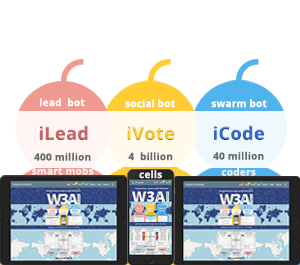
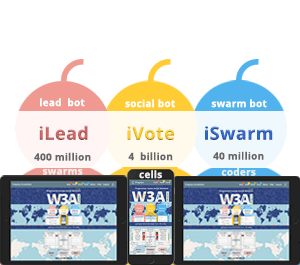
pivot to weSwarm 4 fun days weekend

diff --git a/src/app/welcome/welcome.component.html b/src/app/welcome/welcome.component.html
@@ -2,8 +2,8 @@
 
   <img id="innovators" class="web-show" src="/assets/img/innovators-400.jpg" height="265">
 
-  <div class="faster-world">
-    <img id="leaders" src="/assets/img/filter.png">
+  <div class="mission">
+    <h4 id="leaders">4  &nbsp;fun  &nbsp;days &nbsp;weekend</h4>
   </div>
 
   <div class="slow-world" [ngStyle]="{'background-position-x': setSlowWorldMove() + 'px'}">
@@ -60,7 +60,7 @@
             </li>
 
             <li class="mob-in">
-                <a routerLink="/signup"><button class="auth-button" mat-button>weBrain</button></a>
+                <a routerLink="/signup"><button class="auth-button" mat-button>weSwarm</button></a>
             </li>
 
           </ol>
@@ -145,13 +145,13 @@
         <tr>
           <td></td>
           <td></td>
-          <td contenteditable="true"><b>&nbsp;mob projects&nbsp;</b></td>
+          <td contenteditable="true"><b>&nbsp;swarm ideas&nbsp;</b></td>
           <td></td>
           <td></td>
-          <td contenteditable="true"><b>mob interests</b></td>
+          <td contenteditable="true"><b>interests</b></td>
           <td></td>
           <td></td>
-          <td contenteditable="true"><b>&nbsp;mob services&nbsp;</b></td>
+          <td contenteditable="true"><b>&nbsp;swarm bots&nbsp;</b></td>
           <td></td>
           <td></td>
         </tr>
@@ -447,12 +447,12 @@
   <section class="clone" fxLayout="row" fxLayoutGap="40px">
     <div class="open-source" fxLayout="column" fxLayoutAlign="center end">
       <p><b>free w3ai.org</b></p>
-      <p><b><a href="https://w3ai.org">world brains</a></b></p>
+      <p><b><a href="https://w3ai.org">world swarms</a></b></p>
       <p>edu org</p>
     </div>
     <div class="enterprise" fxLayout="column" fxLayoutAlign="center ">
       <p><b>open w3ai.net</b></p>
-      <p><b><a href="https://w3ai.net">business brains</a></b></p>
+      <p><b><a href="https://w3ai.net">business swarms</a></b></p>
       <p>gov com</p>
     </div>
   </section>
@@ -497,7 +497,7 @@
   <section>
     <h3>how it works</h3>
     <p contenteditable="true">1. post swarm ideas.</p>
-    <p contenteditable="true">2. post web bots.</p>
+    <p contenteditable="true">2. post swarm bots.</p>
     <p>3. swarm up for best solutions.</p>
   </section>
   <section>
@@ -586,7 +586,7 @@
 </div>
 
   <ul class="footer">
-    <li><a href="https://github.com/W3AI/Global-OS">clone weBrain @ github</a></li>
+    <li><a href="https://github.com/W3AI/Global-OS">clone swarms @ github</a></li>
     <li>brain engine PoC 0.8</li>
     <li>© Ianta Labs / MIT License</li>  
 </ul>

diff --git a/src/app/navigation/header/header.component.html b/src/app/navigation/header/header.component.html
@@ -10,7 +10,7 @@
 <section class="toolbar-text" fxFlex>
 
     <div fxFlex fxLayout fxLayoutAlign="flex-start" fxHide.gt-sm>
-        <a routerLink="/">weBrain</a>
+        <a routerLink="/">weSwarm</a>
     </div>
 
     <div xFlex fxLayout fxLayoutAlign="flex-start" fxHide.lt-md>
@@ -19,7 +19,7 @@
 
     <div fxFlex fxLayout fxLayoutAlign="flex-end" fxHide.gt-sm>
         <ul fxLayout fxLayoutAlign="center center" fxLayoutGap="10px" fxLayoutGap.gt-xs="15px" class="navigation-items">
-            <li *ngIf="isAuth$ | async"><a routerLink="/project"><span matBadge="9" matBadgeColor="accent">idea</span></a></li>            
+            <li *ngIf="isAuth$ | async"><a routerLink="/project"><span matBadge="9" matBadgeColor="accent">ideas</span></a></li>            
             <li *ngIf="isAuth$ | async"><a routerLink="/venture"><span matBadge="7" matBadgeColor="warn">vote</span></a></li>
             <li *ngIf="isAuth$ | async"><a routerLink="/session"><span class="alternate-theme" matBadge="6" matBadgeColor="primary">done</span></a></li>
         </ul>
@@ -28,7 +28,7 @@
     <div fxFlex fxLayout fxLayoutAlign="flex-end" fxHide.lt-md>
         <ul fxLayout fxLayoutAlign="center center" fxLayoutGap="10px" fxLayoutGap.gt-xs="15px" class="navigation-items">
 
-            <li *ngIf="isAuth$ | async"><a routerLink="/project"><span matBadge="9" matBadgeColor="accent" matBadgeOverlap="true">idea</span></a></li>
+            <li *ngIf="isAuth$ | async"><a routerLink="/project"><span matBadge="9" matBadgeColor="accent" matBadgeOverlap="true">ideas</span></a></li>
             <li *ngIf="isAuth$ | async"><a routerLink="/venture"><span matBadge="7" matBadgeColor="warn" >vote</span></a></li>
             <li *ngIf="isAuth$ | async"><a routerLink="/session"><span matBadge="6" class="alternate-theme" matBadgeColor="primary" matBadgeOverlap="true">done</span></a></li>
             <li *ngIf="isAuth$ | async"><a routerLink="/session"><span matBadge="8" class="bot-theme" matBadgeColor="primary" matBadgeOverlap="true">bots</span></a></li>

diff --git a/src/app/welcome/welcome.component.css b/src/app/welcome/welcome.component.css
@@ -15,16 +15,25 @@ div.web-show {
     display: block;
 }
 
-.faster-world {
+.mission {
     height: 40px;
     width: 100%;
     position: relative;
     top: -340px;
-    z-index: 4;
-/*    background-image: url("/assets/img/World-120.png");   */
-    background-size: 0% 0%;
-    background-position-x: 90px;
+    z-index: 40;
+/*  background-image: url("/assets/img/World-120.png");   */
     display: block;
+}
+
+#leaders {
+    color: white;
+    font-size: 20px;
+    margin-left: 40px;
+    height: 40px;
+    width: 100%;
+    position: relative;
+    top: 80px;
+    z-index: 40;
 }
 
 .slow-world {
@@ -39,11 +48,7 @@ div.web-show {
     display: block;
 }
 
-#leaders {
-    height: 100%;
-    width: 100%;
-    filter:hue-rotate(0deg) opacity(0%) saturate(10);
-}
+
 
 #voters {
     height: 100%;

diff --git a/src/app/navigation/header/header.component.ts b/src/app/navigation/header/header.component.ts
@@ -16,7 +16,7 @@ import { SetupService } from '../../setup.service';
 export class HeaderComponent implements OnInit {
   @Output() sidenavToggle = new EventEmitter<void>();
   isAuth$: Observable<boolean>;
-  appTitle = 'weBrain';
+  appTitle = 'weSwarm';
 
   constructor(private store: Store<fromRoot.State>, 
               private authService: AuthService,

diff --git a/src/index.html b/src/index.html
@@ -2,7 +2,7 @@
 <html lang="en">
 <head>
   <meta charset="utf-8">
-  <title>weBrain</title>
+  <title>weSwarm</title>
   <base href="/">
 
   <meta name="viewport" content="width=device-width, initial-scale=1">
